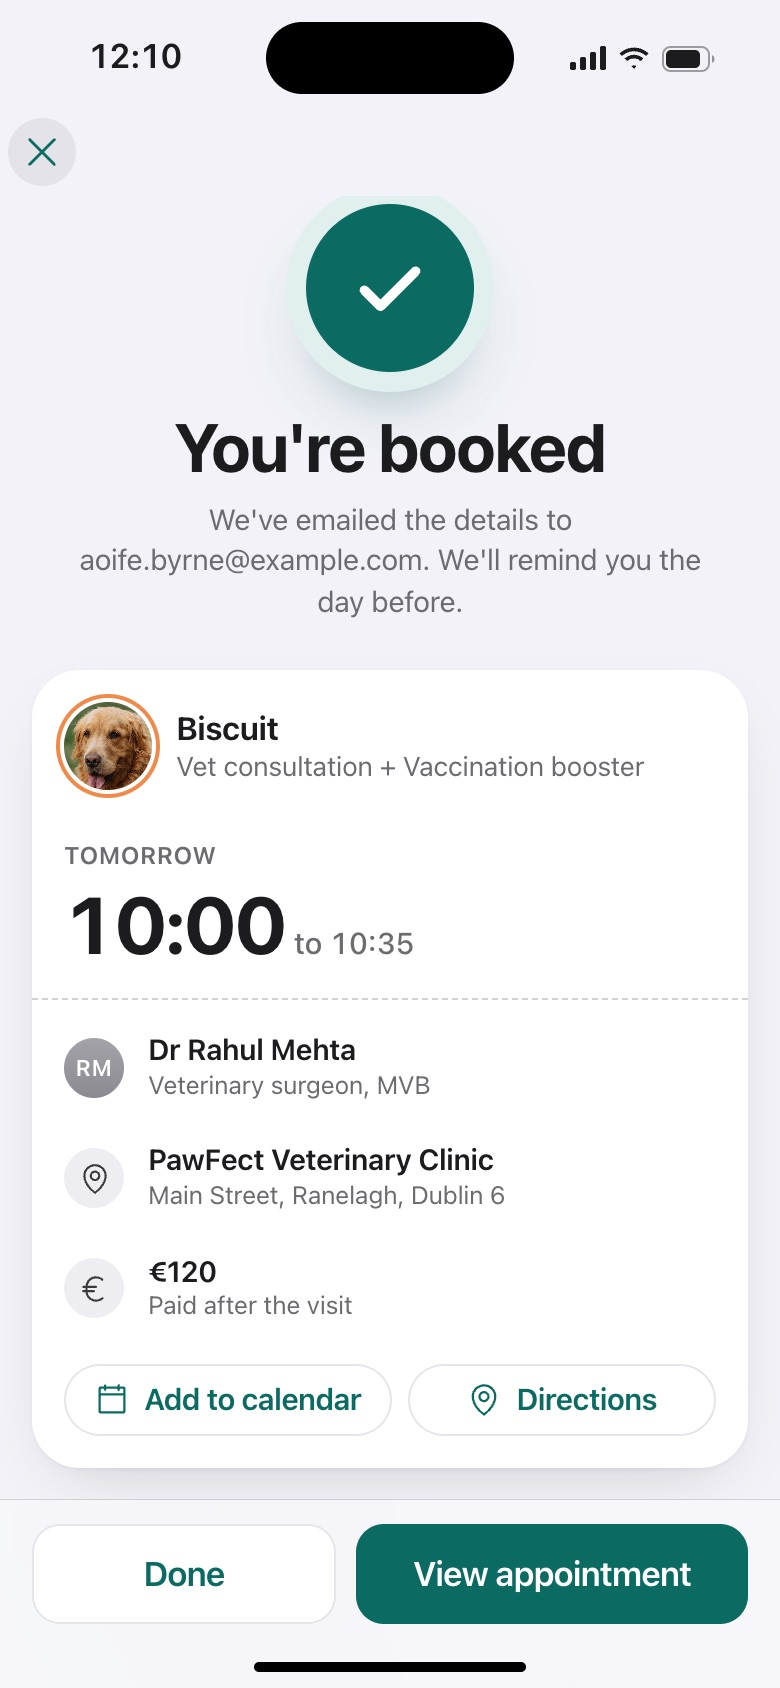
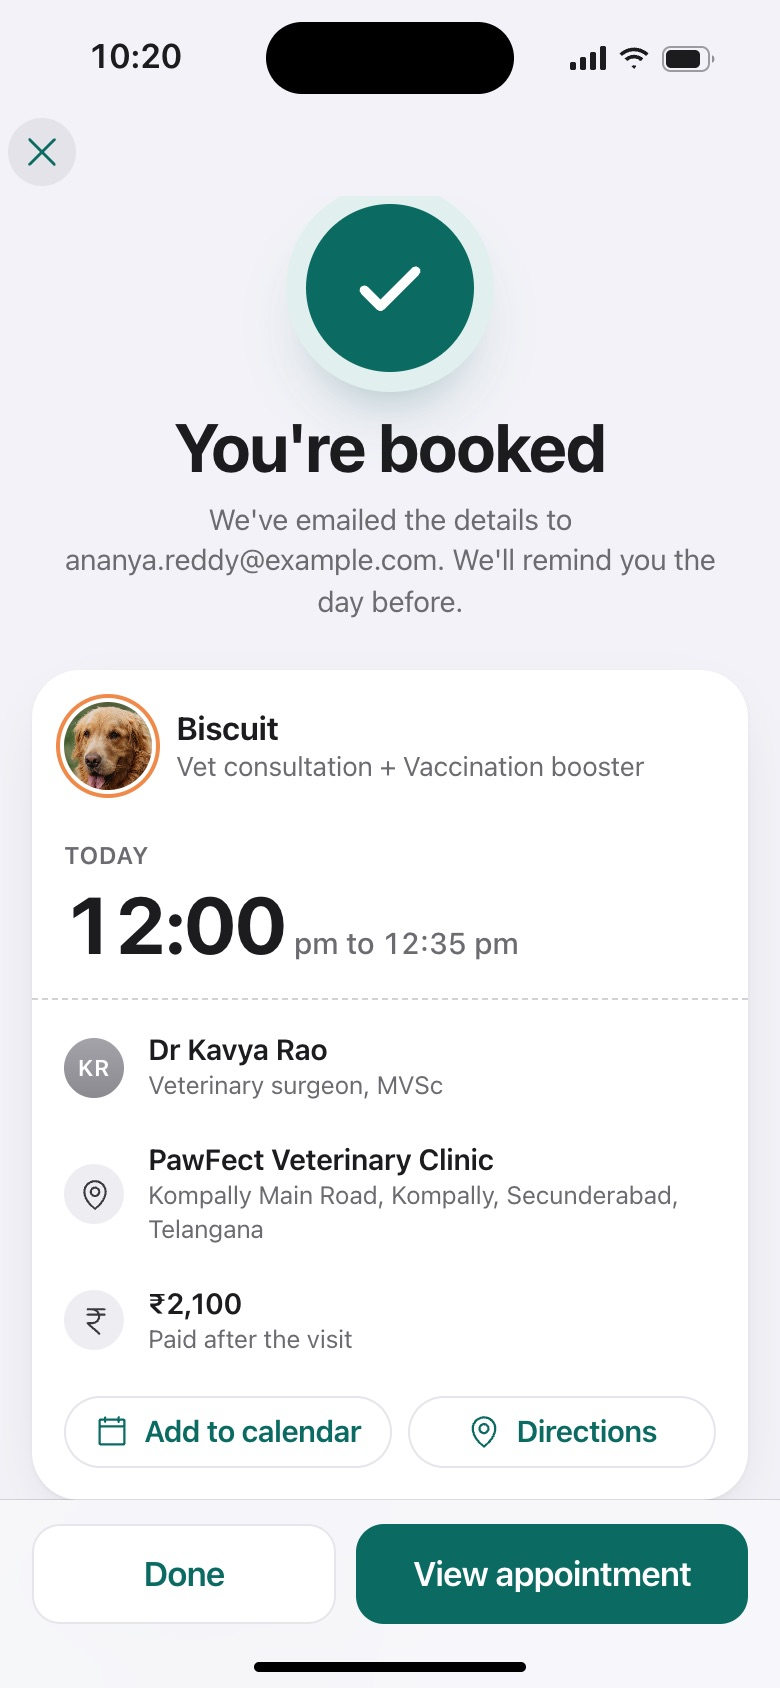
PawFect case study: DreamWeavers, Hyderabad, rupee pricing
Reframed as the 2025 DreamWeavers client project with Indian content,
new screenshots and cover.

diff --git a/src/data/projectsData.js b/src/data/projectsData.js
@@ -568,30 +568,30 @@ export const projectsData = {
     },
     project7: {
         title: `PawFect`,
-        problemStatement: `A dog's care is spread across a paper vaccination card, reminder texts, the clinic's phone line and a bill that only arrives at the end. Owners miss boosters and find out the price too late, while the clinic spends its day on the phone. PawFect puts the whole relationship between an owner, their dog and their clinic into one app.`,
-        tagline: `A pet care app designed for a veterinary and grooming clinic: book in a few taps, carry a digital health passport, and see every price before you pay`,
+        problemStatement: `A dog's care is spread across a paper vaccination book, WhatsApp reminders, the clinic's phone line and a bill that only arrives at the end. Owners miss boosters and find out the price too late, while the clinic spends its day on the phone. PawFect puts the whole relationship between an owner, their dog and their clinic into one app.`,
+        tagline: `A pet care app for a veterinary and grooming clinic in Hyderabad: book in a few taps, carry a digital health passport, and see every price before you pay`,
         category: `Mobile App · Product Requirements · UX`,
-        timeline: `Clinic brief to working prototype`,
-        role: `Product requirements owner. Contributed to the UI design`,
+        timeline: `Feb to Aug 2025 · DreamWeavers, Hyderabad`,
+        role: `Product Associate at DreamWeavers. Owned the product requirements and contributed to the UI design`,
         cover: `./pawfect/pf-cover.jpg`,
         device: `phone`,
         overview: [
-            `PawFect is a mobile app designed for a pet care clinic that offers vet care and grooming for dogs. It gives the clinic's clients one place to book visits and check in on arrival, keep each dog's full health record in a digital passport, get reminders that come from that record, message the clinic team, and approve or pay costs.`,
-            `I owned the product requirements. I turned the clinic's brief into six capability areas (a personalised home, booking, the health passport, care reminders, chat and payments), wrote what each had to do and the rules behind it, set the priorities, and reviewed every screen against them. I also contributed to the UI design, mainly through direction and critique on each design pass.`,
-            `The result is a working prototype rather than a set of static mockups: more than 30 screens running on sample data for a household with two dogs, so the clinic team can use it on a phone and judge how it would feel day to day.`
+            `PawFect is a mobile app for a pet care clinic in Hyderabad that offers vet care and grooming for dogs, and was a client project during my time at DreamWeavers. It gives the clinic's clients one place to book visits and check in on arrival, keep each dog's full health record in a digital passport, get reminders that come from that record, message the clinic team, and approve or pay costs by UPI.`,
+            `As a Product Associate, I owned the product requirements. I led the market analysis and customer research, turned the clinic's brief into six capability areas (a personalised home, booking, the health passport, care reminders, chat and payments), wrote what each had to do and the rules behind it as use cases and specifications, set the priorities with the engineers, and reviewed every screen against them. I also contributed to the UI design, mainly through direction and critique on each design pass.`,
+            `The screens below cover more than 30 screens across those six areas, shown on sample data for a household in Kompally with two dogs.`
         ],
         impactMetrics: [
             { label: `Capability areas from one clinic brief`, value: `6` },
             { label: `Screens in one working prototype`, value: `30+` },
             { label: `Visit for everything a dog is due`, value: `1` }
         ],
-        tools: [`Product requirements`, `Prioritisation`, `UX flows`, `UI design (contributor)`, `Working prototype`],
+        tools: [`Market analysis`, `Product requirements`, `Use cases and specs`, `UX flows`, `UI design (contributor)`],
         users: [
             { who: `Dog owners`, need: `Know what each dog needs and when, book without phoning, and never be surprised by a bill.` },
             { who: `New puppy owners`, need: `Get through the puppy vaccines, worming and a first groom with a prompt at the right moment, instead of a pile of leaflets.` },
             { who: `The clinic team`, need: `Fewer missed boosters and no-shows, fewer routine calls to reception, estimates approved before the day and invoices paid without chasing.` }
         ],
-        problem: `Keeping a dog healthy is mostly admin, and it lives in places that don't talk to each other. The vaccination history is on a paper card or a PDF, so the next booster date is a guess. Booking means calling during opening hours, and moving a slot means calling again. Medicine instructions and aftercare advice are handed over on paper and forgotten. Costs come up at the counter, often after the work is done. The clinic carries the cost of all this: boosters given late or not at all, slots lost to no-shows that a waitlist could have filled, reception tied up with questions an app could answer, and estimates waiting on a phone call. The brief asked for one app that fixes this for owners while taking load off the clinic.`,
+        problem: `Keeping a dog healthy is mostly admin, and it lives in places that don't talk to each other. The vaccination history is in a paper book, so the next booster date is a guess. Booking means calling during clinic hours or sending a WhatsApp message someone has to answer, and moving a slot means doing it all again. Medicine instructions and aftercare advice are handed over on paper and forgotten. Costs come up at the counter, often after the work is done. The clinic carries the cost of all this: boosters given late or not at all, slots lost to no-shows that a waitlist could have filled, reception tied up with questions an app could answer, and estimates waiting on a phone call. The brief asked for one app that fixes this for owners while taking load off the clinic.`,
         differentiator: {
             status: `Working prototype`,
             title: `Everything due, in one visit`,
@@ -603,7 +603,7 @@ export const projectsData = {
                 `On the day, owners check in from the car park and watch their place in a live queue, so a nervous dog can wait outside until it's their turn.`
             ]
         },
-        solution: `I wrote the requirements around the owner's jobs and the clinic's rules, not around screens. The brief listed a lot of features, so I sorted them by how often an owner would need them: doses and care tasks daily, messages weekly, bookings monthly, billing a few times a year. That frequency shaped the structure. Home, Visits, Health, Care and Chat became the five tabs, and billing appears in context, on Home or a visit, when there is something to pay or approve, rather than taking a permanent tab. Every requirement carried a rule the build could implement and the clinic could check: a booster is due 12 months after the last dose; every service is priced for the dog's size before booking; cancelling is free up to 24 hours before; nothing over €50 goes ahead without the owner's approval. For the interface, I pushed for an app that feels familiar on first use by following native iOS conventions, and for restraint on the home screen, which the brief asked to hold eight different kinds of information.`,
+        solution: `I wrote the requirements around the owner's jobs and the clinic's rules, not around screens. The brief listed a lot of features, so I sorted them by how often an owner would need them: doses and care tasks daily, messages weekly, bookings monthly, billing a few times a year. That frequency shaped the structure. Home, Visits, Health, Care and Chat became the five tabs, and billing appears in context, on Home or a visit, when there is something to pay or approve, rather than taking a permanent tab. Every requirement carried a rule the build could implement and the clinic could check: a booster is due 12 months after the last dose; every service is priced for the dog's size before booking; cancelling is free up to 24 hours before; nothing over ₹1,000 goes ahead without the owner's approval. For the interface, I pushed for an app that feels familiar on first use by following native iOS conventions, and for restraint on the home screen, which the brief asked to hold eight different kinds of information.`,
         principlesTitle: `Principles I set`,
         principles: [
             { title: `Work it out from the record`, desc: `Due dates, supply left and reminders are calculated from what the clinic has recorded, so nothing is entered twice and nothing drifts.` },
@@ -612,14 +612,14 @@ export const projectsData = {
             { title: `Safe before convenient`, desc: `Chat says it is not for emergencies, booking flags urgent symptoms with a prompt to call, and results appear only once a vet has reviewed them.` }
         ],
         process: [
-            { step: `01`, title: `Start from the clinic's goals`, desc: `Before any features, I listed what the clinic needed to change: fewer missed boosters and no-shows, fewer routine phone calls, estimates approved before the day and invoices paid without chasing.` },
+            { step: `01`, title: `Research the market and the clinic's clients`, desc: `Led the market analysis and customer research: what owners juggle today, where the clinic loses time, and what other pet apps leave out. It set the clinic's goals: fewer missed boosters and no-shows, fewer routine calls, estimates approved before the day, invoices paid without chasing.` },
             { step: `02`, title: `Write requirements as jobs and rules`, desc: `Broke the brief into six capability areas. For each one I wrote the owner's jobs, the clinic's rules and what done looks like, such as "if a dog has vaccination history, show the next date a year after the last dose".` },
             { step: `03`, title: `Prioritise by how often it's needed`, desc: `Ranked every capability by how often an owner would use it. Daily care and doses earned a tab; billing became contextual, appearing on Home and in visits when there is something to pay.` },
             { step: `04`, title: `Model a real household`, desc: `Specified the sample data: a four-year-old Golden Retriever recovering from surgery with a skin allergy, and a seven-month-old Beagle finishing her puppy course. Every screen could then be reviewed in realistic states: overdue, due soon, recovering, running low.` },
             { step: `05`, title: `Map the flows and their edge cases`, desc: `Booking in four steps, check-in and the live queue, waitlist offers, refills, estimate approval, payment and insurance claims, each with its awkward cases: a fully booked day, cancelling inside 24 hours, a dog with no insurance.` },
             { step: `06`, title: `Review every design pass`, desc: `The first pass worked but looked like a generic template. The second felt native but turned every section into the same list, like a settings screen. The third kept the native feel and gave each section a layout suited to its job.` },
-            { step: `07`, title: `Verify every flow`, desc: `Walked every flow end to end in a real browser before sharing it: booking, check-in, the waitlist, refills, chat, payment and estimate approval, with no errors.` },
-            { step: `08`, title: `Use AI to build faster, not to decide`, desc: `The prototype was built with an AI coding assistant, which made a working app possible where there would otherwise have been static mockups. The requirements, the priorities and the calls on what to cut were mine.` }
+            { step: `07`, title: `Work with engineering through QA`, desc: `Defined the requirements alongside the engineers from discovery through QA, so every rule had an owner and a test: booster dates, size-based prices, the 24-hour cancellation window, waitlist offers.` },
+            { step: `08`, title: `Use LLMs to speed up specs, not to decide`, desc: `Used LLMs to draft specifications and stress-test edge cases faster. The requirements, the priorities and the calls on what to cut stayed product decisions.` }
         ],
         designDecisions: [
             {
@@ -652,7 +652,7 @@ export const projectsData = {
             {
                 images: [{ src: `./pawfect/pf-care.jpg` }, { src: `./pawfect/pf-refill.jpg` }],
                 title: `Reminders that come from the record`,
-                description: `Care shows the week at a glance, with dots for what is due each day, then today's doses and tasks, anything overdue, what's coming up and the routines that repeat. Completing a recurring task schedules the next one. A refill request goes straight to the prescribing vet, with collection or postage chosen up front.`
+                description: `Care shows the week at a glance, with dots for what is due each day, then today's doses and tasks, anything overdue, what's coming up and the routines that repeat. Completing a recurring task schedules the next one. A refill request goes straight to the prescribing vet, with collection or home delivery chosen up front.`
             },
             {
                 image: `./pawfect/pf-chat.jpg`,
@@ -662,7 +662,7 @@ export const projectsData = {
             {
                 images: [{ src: `./pawfect/pf-billing.jpg` }, { src: `./pawfect/pf-estimate-tall.jpg`, scroll: true }],
                 title: `No surprises: estimates, invoices and insurance`,
-                description: `Billing leads with the outstanding balance and what the insurer could pay back. Estimates show a price range with optional items, and the owner approves or declines in the app, with nothing going ahead until they do. Invoices are paid in a couple of taps, with a receipt and a pre-filled claim form ready for the insurer.`
+                description: `Billing leads with the outstanding balance and what the insurer could pay back. Estimates show a price range with optional items, and the owner approves or declines in the app, with nothing going ahead until they do. Invoices are paid in a couple of taps by UPI or card, with a receipt and a pre-filled claim form ready for the insurer.`
             }
         ],
         flows: [
@@ -683,13 +683,13 @@ export const projectsData = {
                 steps: [
                     { image: `./pawfect/pf-billing.jpg`, caption: `Balance and insurance at a glance` },
                     { image: `./pawfect/pf-estimate-approve.jpg`, caption: `Approve an estimate within its range` },
-                    { image: `./pawfect/pf-pay.jpg`, caption: `Pay an invoice in two taps` }
+                    { image: `./pawfect/pf-pay.jpg`, caption: `Pay by UPI in two taps` }
                 ]
             }
         ],
         gallery: {
             title: `More screens`,
-            note: `Screenshots from the working prototype on sample data. Longer screens scroll inside the frame.`,
+            note: `Shown on sample data. Longer screens scroll inside the frame.`,
             items: [
                 { image: `./pawfect/pf-history-tall.jpg`, caption: `Visit history as a timeline`, scroll: true },
                 { image: `./pawfect/pf-growth-tall.jpg`, caption: `Puppy growth against the expected range`, scroll: true },
@@ -716,7 +716,7 @@ export const projectsData = {
             }
         ],
         metrics: {
-            intro: `PawFect is a working prototype on sample data, so these are the measures I'd agree with the clinic before launch, not results.`,
+            intro: `How I'd judge whether PawFect is working for the clinic and its clients.`,
             items: [
                 { name: `Boosters on time`, why: `Share of boosters given within 30 days of their due date. The clearest sign that the passport and reminders are doing their job.` },
                 { name: `Bookings without a call`, why: `Share of appointments booked, moved or cancelled in the app, and the matching drop in routine calls to reception.` },
@@ -726,11 +726,10 @@ export const projectsData = {
             ]
         },
         outcomes: [
-            `A working prototype of more than 30 screens covering all six areas of the clinic's brief, running on sample data for a household with two dogs.`,
-            `Every rule in the requirements is implemented and visible: boosters due 12 months after the last dose, prices by dog size, free cancellation up to 24 hours before, waitlist offers, estimate approval in the app and insurance payback estimates.`,
-            `Designed for a pet care clinic and built as a working app rather than slides, so the team can try it on their own phones.`,
-            `Verified end to end in a real browser, from booking, check-in and the live queue to refills, chat replies, payment and estimate approval, with no errors.`,
-            `Built to native iOS conventions, with the system font at Apple's sizes, familiar navigation, sheets and switches, visible focus states and reduced-motion support.`
+            `Requirements for all six areas of the clinic's brief, written as jobs, rules and use cases that engineering could build and QA could test.`,
+            `Every rule designed into the screens: boosters due 12 months after the last dose, prices by dog size, free cancellation up to 24 hours before, waitlist offers, estimate approval in the app and insurance payback estimates.`,
+            `More than 30 screens across booking, the health passport, care reminders, chat and payments, following native iOS conventions so the app feels familiar on first use.`,
+            `Payments shaped around how Hyderabad pays: UPI first with cards as a fallback, prices in rupees, and GST shown where it applies.`
         ],
         reflections: `Owning the requirements taught me that a long feature list usually hides a few promises. PawFect's brief came down to three: you'll always know what your dog needs, you'll never be surprised by a price, and the clinic is one message away. Writing every requirement against one of them made it easy to cut what didn't serve them, and gave me a clear standard for reviewing the UI: every screen had to keep those promises, and feel like an app people already know how to use.`,
 

diff --git a/src/pages/Projects.jsx b/src/pages/Projects.jsx
@@ -27,11 +27,11 @@ const WORKS = [
         img: './msc/data-viz/banner.jpg',
     },
     {
-        num: '03', id: 'pawfect', title: 'PawFect', tags: ['MOBILE APP', 'PRODUCT REQUIREMENTS'], year: '2026',
+        num: '03', id: 'pawfect', title: 'PawFect', tags: ['MOBILE APP', 'PRODUCT REQUIREMENTS'], year: '2025',
         role: projectsData.project7.role,
-        status: 'WORKING PROTOTYPE',
+        status: 'CLIENT PROJECT · DREAMWEAVERS',
         stack: projectsData.project7.tools.join(' · '),
-        desc: 'A pet care app designed for a veterinary clinic: book in a few taps, carry a digital health passport, get reminders from the record and see every price before you pay.',
+        desc: 'A pet care app for a veterinary clinic in Hyderabad, from my time at DreamWeavers: book in a few taps, carry a digital health passport, get reminders from the record and see every price before you pay.',
         img: './pawfect/pf-cover.jpg',
     },
     {

diff --git a/src/pages/Project7.jsx b/src/pages/Project7.jsx
@@ -21,7 +21,7 @@ const Project7 = () => (
         project={projectsData.project7}
         nextProject={{ title: 'Trek Mate', to: '/projects/1' }}
         logo={<PawFectLogo />}
-        decisionsNote="Every screen below is a screenshot of the working prototype, running on sample data."
+        decisionsNote="Every screen below is from the PawFect design, shown on sample data."
     />
 );
 
